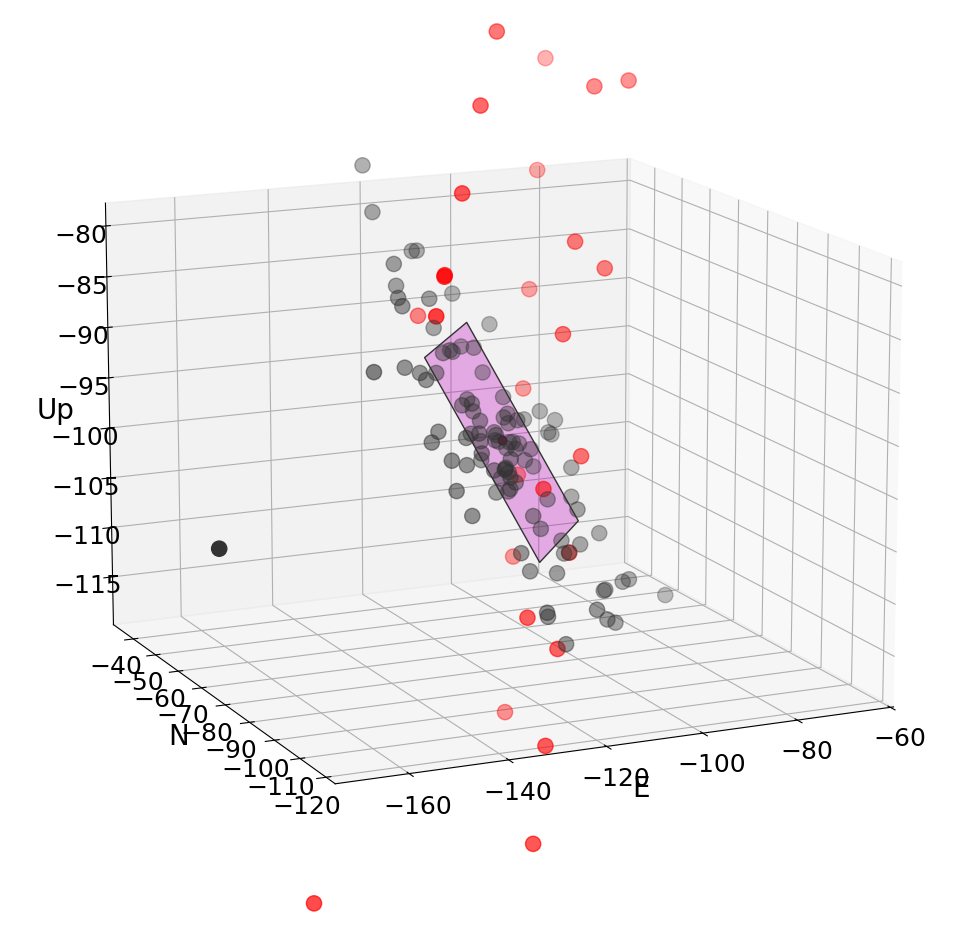
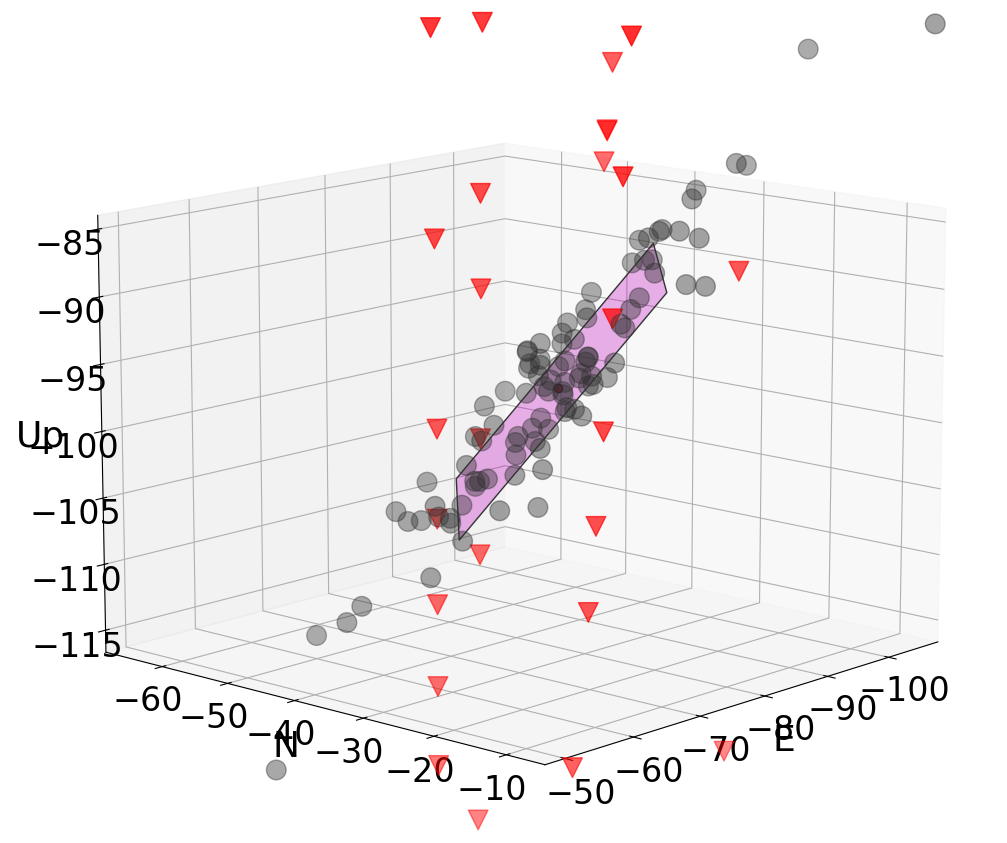
feat: some plotting changes

diff --git a/plots_performance.py b/plots_performance.py
@@ -62,7 +62,7 @@ config_pyocto = pyocto.OctoAssociator(
 config_gamma = {
     "ncpu": 4,
     "dims": ['x(km)', 'y(km)', 'z(km)'],  # needs to be *(km), column names
-    "use_amplitude": True,
+    "use_amplitude": False,
     "vel": {"p": 5.5, "s": 2.7},
     "method": "BGMM",
     "oversample_factor": 5,  # factor on the number of initial clusters
@@ -86,34 +86,32 @@ config_gamma = {
 
 data_config = {
     "easy": {
-        "min_events": 8,
-        "max_events": 12,
-        "add_noise": False,
-        "noise_factor": 1
+        "min_events": 4,
+        "max_events": 6,
+        "add_noise": True,
+        "noise_factor": 1,
+        "label": "1"
     },
     "medium": {
-        "min_events": 40,
-        "max_events": 60,
-        "add_noise": False,
-        "noise_factor": 1
+        "min_events": 45,
+        "max_events": 55,
+        "add_noise": True,
+        "noise_factor": 1,
+        "label": "10"
     },
     "hard": {
-        "min_events": 90,
-        "max_events": 110,
-        "add_noise": False,
-        "noise_factor": 1
+        "min_events": 240,
+        "max_events": 260,
+        "add_noise": True,
+        "noise_factor": 1,
+        "label": "50"
     },
     "veryhard": {
         "min_events": 450,
         "max_events": 550,
-        "add_noise": False,
-        "noise_factor": 1
-    },
-    "extremelyhard": {
-        "min_events": 950,
-        "max_events": 1050,
-        "add_noise": False,
-        "noise_factor": 1
+        "add_noise": True,
+        "noise_factor": 1,
+        "label": "100"
     }
 }
 
@@ -121,7 +119,7 @@ datasets = {}
 stat_gamma = {}
 stat_pyocto = {}
 
-duration = 10
+duration = 5
 n_catalogs = 10
 
 for key, value in data_config.items():
@@ -197,7 +195,7 @@ PyOcto_precision = np.array([stat_pyocto[key].precision()
 PyOcto_recall = np.array([stat_pyocto[key].recall()
                          for key in data_config.keys()])
 
-lables = ['1/s', '5/s', '10/s', '50/s', '100/s']
+lables = [d['label'] for d in data_config.values()]
 
 fig, ax = plt.subplots(2, 2, figsize=(10, 10))
 ax[0, 0].plot(GaMMA_ari, label='GaMMA')
@@ -205,6 +203,7 @@ ax[0, 0].plot(PyOcto_ari, label='PyOcto')
 ax[0, 0].set_title('ARI')
 ax[0, 0].set_xticks(range(len(data_config.keys())))
 ax[0, 0].set_xticklabels(lables)
+ax[0, 0].set_xlabel('⌀ events / second')
 ax[0, 0].set_ylim([0, 1])
 ax[0, 0].legend()
 
@@ -213,6 +212,7 @@ ax[0, 1].plot(PyOcto_accuracy, label='PyOcto')
 ax[0, 1].set_title('Accuracy')
 ax[0, 1].set_xticks(range(len(data_config.keys())))
 ax[0, 1].set_xticklabels(lables)
+ax[0, 1].set_xlabel('⌀ events / second')
 ax[0, 1].set_ylim([0, 1])
 ax[0, 1].legend()
 
@@ -221,6 +221,7 @@ ax[1, 0].plot(PyOcto_precision, label='PyOcto')
 ax[1, 0].set_title('Precision')
 ax[1, 0].set_xticks(range(len(data_config.keys())))
 ax[1, 0].set_xticklabels(lables)
+ax[1, 0].set_xlabel('⌀ events / second')
 ax[1, 0].set_ylim([0, 1])
 ax[1, 0].legend()
 
@@ -229,6 +230,7 @@ ax[1, 1].plot(PyOcto_recall, label='PyOcto')
 ax[1, 1].set_title('Recall')
 ax[1, 1].set_xticks(range(len(data_config.keys())))
 ax[1, 1].set_xticklabels(lables)
+ax[1, 1].set_xlabel('⌀ events / second')
 ax[1, 1].set_ylim([0, 1])
 ax[1, 1].legend()
 

diff --git a/plots_data.py b/plots_data.py
@@ -71,7 +71,7 @@ plt.xticks(fontsize=ticksize)
 plt.yticks(fontsize=ticksize)
 plt.show()
 
-
+# %%
 # Plot 3D hypocentre distribution & finite slip patch ########################
 
 stations = pd.read_csv('stations/station_cords_blab_VALTER.csv')
@@ -121,7 +121,7 @@ plot_rectangular_slippatch(ax, finsrc, 'm')
 ax.scatter(catalog['e'], catalog['n'], catalog['u'],
            '.', color=[.2, .2, .2], s=markersize)
 ax.scatter(stations_enu['x'], stations_enu['y'],
-           stations_enu['z'], 'o', color='r', s=markersize)
+           stations_enu['z'], marker='v', color='r', s=markersize)
 
 XYZ = np.array([catalog['e'], catalog['n'], catalog['u']]).T
 
